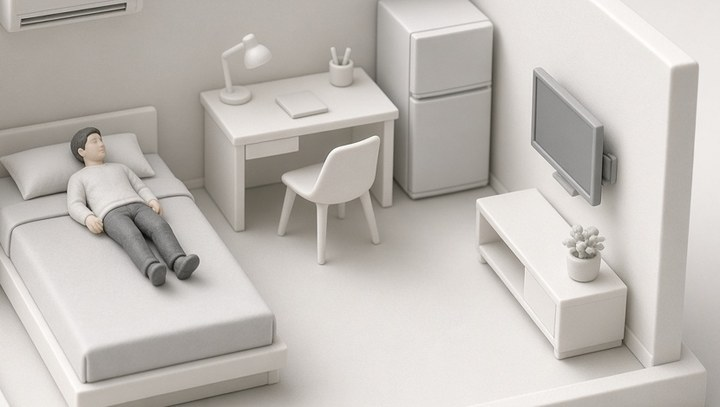
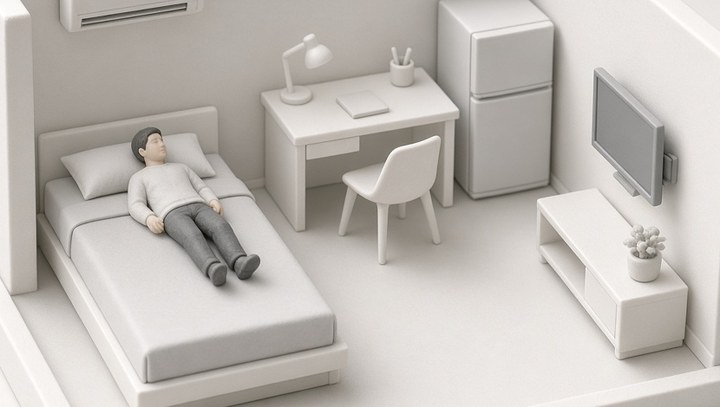
上午2:20：套房照片裁切往左

diff --git a/app.js b/app.js
@@ -14,11 +14,11 @@ const ACCOUNT_BANKS = { "統潔": ["聯邦", "農會", "兆豐", "超商"], "信
 const BANK_PLACES = ["聯邦", "兆豐", "農會", "超商"];
 const PERSONAL_PEOPLE = ["趙文榮", "趙洪漳", "趙浩鈞", "趙文彬", "趙苡真", "趙海成、趙正賢", "江秀霞", "黃思敏"];
 const PERSONAL_ACCOUNTS = PERSONAL_PEOPLE.map(p => "個人戶·" + p);
-const APP_STAMP = "2026-08-30-02-18";
+const APP_STAMP = "2026-08-30-02-20";
 const TENANT_ROSTER_VER = "20260829-2230";
 const FACTORY_ROSTER_VER = "20260828-2030";
 const CHANGELOG = [
-  { ver: APP_STAMP, items: ["套房出租率照片再裁近一點"] },
+  { ver: APP_STAMP, items: ["套房出租率照片裁切再往左一點"] },
   { ver: "2026-08-29-下午11:43", items: ["總覽移除本月收租率"] },
   { ver: "2026-08-29-下午10:36", items: ["修復畫面全白"] },
   { ver: "2026-08-29-下午10:33", items: ["修復管理員密碼無法登入"] },
@@ -5879,7 +5879,7 @@ function adminDash() {
     </div>
     <div class="dash-hero rings">
       <div class="card ring-card ring-stack">
-        <div class="ring-row"><div class="ring-wrap"><div class="ring sky ${ui.keepScroll ? "" : "spin-in"} delay" style="--p:${studioOcc.occ}"></div><b>${studioOcc.occ}%</b></div><div><div class="k">套房出租率</div><div class="small">滿租 ${studioOcc.rented} · 空置 ${studioOcc.vacant} · 維修 ${studioOcc.repairing}</div></div><img class="occ-shot" src="images/occ-studio.jpg?v=0218" alt="套房"></div>
+        <div class="ring-row"><div class="ring-wrap"><div class="ring sky ${ui.keepScroll ? "" : "spin-in"} delay" style="--p:${studioOcc.occ}"></div><b>${studioOcc.occ}%</b></div><div><div class="k">套房出租率</div><div class="small">滿租 ${studioOcc.rented} · 空置 ${studioOcc.vacant} · 維修 ${studioOcc.repairing}</div></div><img class="occ-shot" src="images/occ-studio.jpg?v=0220" alt="套房"></div>
         <div class="ring-row"><div class="ring-wrap"><div class="ring leaf ${ui.keepScroll ? "" : "spin-in"} delay" style="--p:${factoryOcc.occ}"></div><b>${factoryOcc.occ}%</b></div><div><div class="k">廠房出租率</div><div class="small">滿租 ${factoryOcc.rented} · 空置 ${factoryOcc.vacant} · 維修 ${factoryOcc.repairing}</div></div><img class="occ-shot" src="images/occ-factory.jpg?v=0214" alt="廠房"></div>
         <div class="ring-row"><div class="ring-wrap"><div class="ring clay ${ui.keepScroll ? "" : "spin-in"} delay" style="--p:${storeOcc.occ}"></div><b>${storeOcc.occ}%</b></div><div><div class="k">店面出租率</div><div class="small">滿租 ${storeOcc.rented} · 空置 ${storeOcc.vacant} · 維修 ${storeOcc.repairing}</div></div><img class="occ-shot" src="images/occ-store.jpg?v=0214" alt="店面"></div>
       </div>

diff --git a/index.html b/index.html
@@ -13,7 +13,7 @@
   <link rel="manifest" href="manifest.json" />
   <link rel="apple-touch-icon" href="apple-touch-icon.png" />
   <title>統潔＆信潔開發有限公司 — 租房管理</title>
-  <link rel="stylesheet" href="app.css?v=0218" />
+  <link rel="stylesheet" href="app.css?v=0220" />
   <style>
     html, body { margin: 0; background: #ffffff; }
     #splash {
@@ -66,8 +66,8 @@
     </svg>
   </div>
   <div id="app"></div>
-  <!-- build 2026-08-30-02-18 -->
-  <script src="app.js?v=0218"></script>
+  <!-- build 2026-08-30-02-20 -->
+  <script src="app.js?v=0220"></script>
   <script>setTimeout(function(){ var s=document.getElementById("splash"); if(s) s.classList.add("out"); }, 3500);</script>
 </body>
 </html>

diff --git a/sw.js b/sw.js
@@ -1,5 +1,5 @@
-const CACHE = "tongjie-app-v260";
-const BUILD = "20260830-0218";
+const CACHE = "tongjie-app-v261";
+const BUILD = "20260830-0220";
 const FILES = ["/", "/index.html", "/app.css", "/app.js", "/manifest.json", "/icon-192.png", "/icon-512.png", "/icon-maskable-512.png"];
 self.addEventListener("install", e => {
   self.skipWaiting();
